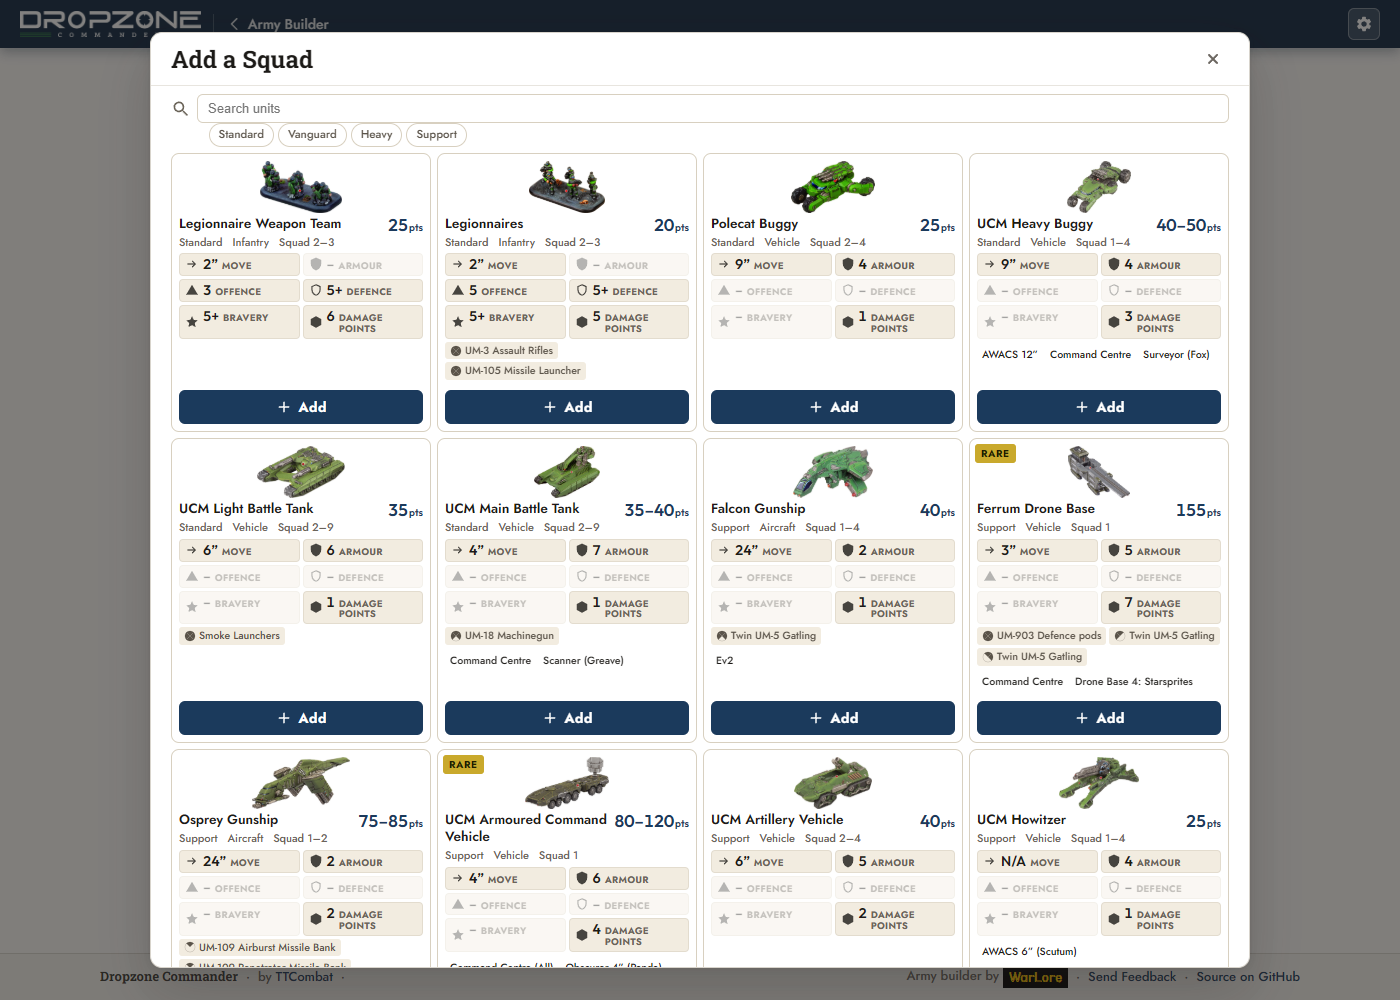
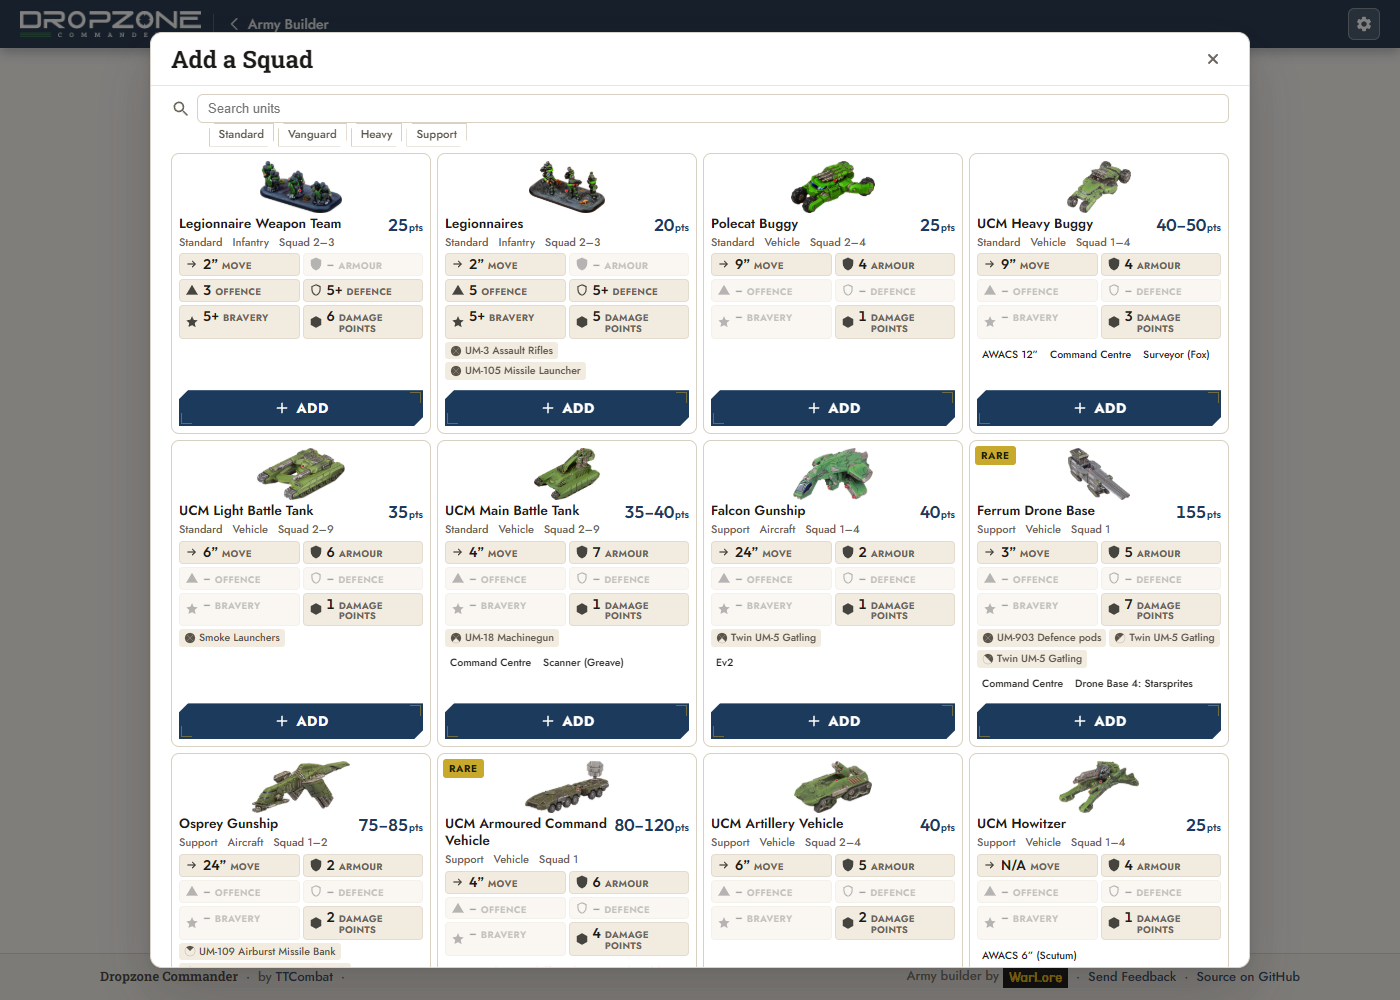
Art Deco buttons and pills: cut corners, not rounded ones
A 999px radius is the shape this project explicitly does not want. Chamfering
is the period-correct way to soften a rectangle, so the category pills and the
Add button cut their corners instead of rounding them.

The Add button also picks out its cut with a gold hairline bracket at the two
opposing corners, which is the same device .card-deco already uses on the
landing cards, and goes uppercase so it reads as the thing you press.

FAILINGS.md item 10 is resolved and says what it cost: the picker was finally
rendered and was wrong in three ways reading the diff had not caught -- the
grid stretched short cards and left a dead band above every Add button, the
arc glyphs were drawn at 20px inside a 10.5px chip, and adding closed the
picker. Three defects per unlooked-at change is the going rate.

Changed region(s): [[0.1229, 0.403, 0.8907, 0.992], [0.4914, 0.62, 0.5836, 0.651]]

diff --git a/css/dzc.css b/css/dzc.css
@@ -29,11 +29,17 @@
 }
 .dzc-search:focus-visible { outline: 2px solid var(--acc); outline-offset: 1px; }
 .dzc-chips { display: flex; flex-wrap: wrap; gap: 5px; }
+/* Deco pills: the corners are cut, not rounded. A 999px radius is the shape
+   this project explicitly does not want, and a chamfer is the period-correct
+   way to soften a rectangle. */
 .dzc-chip {
-  font: 500 12px/1 var(--font-ui, 'Jost', system-ui, sans-serif); padding: 7px 11px;
-  border-radius: 999px; cursor: pointer; border: 1px solid var(--line, #d8d0c0);
+  font: 500 12px/1 var(--font-ui, 'Jost', system-ui, sans-serif); padding: 7px 12px;
+  border-radius: 0; cursor: pointer; border: 1px solid var(--line, #d8d0c0);
   background: transparent; color: var(--ink-2, #5b544a);
+  clip-path: polygon(6px 0, 100% 0, 100% calc(100% - 6px), calc(100% - 6px) 100%, 0 100%, 0 6px);
+  transition: background .12s, color .12s, border-color .12s;
 }
+.dzc-chip:hover { border-color: var(--acc); color: var(--ink, #24201c); }
 .dzc-chip.is-active { background: var(--acc); border-color: var(--acc); color: #fff; }
 .dzc-count { font-size: 12px; color: var(--ink-2, #6b6459); margin: 6px 0 16px; }
 .dzc-empty { padding: 32px 0; text-align: center; color: var(--ink-2, #6b6459); }
@@ -334,16 +340,29 @@
 .dzc-pick-rules { margin-top: 3px; }
 .dzc-pick-rules .dzc-rule { margin: 2px 2px 0 0; padding: 1px 5px; font-size: 10.5px; }
 
-/* The add button is the point of the card, so it reads like it. */
+/* The add button is the point of the card, so it reads like it. Deco corners:
+   cut top-left and bottom-right, with a gold hairline picking out the cut. */
 .dzc-pick-add {
+  position: relative;
   display: flex; align-items: center; justify-content: center; gap: 5px;
-  width: 100%; margin-top: 6px; padding: 8px 12px;
-  border: 0; border-radius: 6px; cursor: pointer;
+  width: 100%; margin-top: 6px; padding: 9px 12px;
+  border: 0; border-radius: 0; cursor: pointer;
   background: var(--acc-ink, #1b3a5c); color: #fff;
   font: 700 14px/1 var(--font-ui, 'Jost', sans-serif);
-  letter-spacing: .02em;
+  letter-spacing: .04em; text-transform: uppercase;
+  clip-path: polygon(9px 0, 100% 0, 100% calc(100% - 9px), calc(100% - 9px) 100%, 0 100%, 0 9px);
+  transition: background .14s var(--ease-deco, cubic-bezier(.33,0,.67,1)), color .14s;
 }
-.dzc-pick-add:hover { background: var(--acc, #c9a227); color: #1b1710; }
+.dzc-pick-add::before,
+.dzc-pick-add::after {
+  content: ''; position: absolute; width: 11px; height: 11px;
+  border-style: solid; border-color: var(--gold, #c9a92c); opacity: .55;
+  pointer-events: none;
+}
+.dzc-pick-add::before { top: 2px; right: 2px; border-width: 1px 1px 0 0; }
+.dzc-pick-add::after { bottom: 2px; left: 2px; border-width: 0 0 1px 1px; }
+.dzc-pick-add:hover { background: var(--gold, #c9a92c); color: #1b1710; }
+.dzc-pick-add:hover::before, .dzc-pick-add:hover::after { border-color: #1b1710; opacity: .5; }
 
 /* ── enforcement affordances ── */
 .dzc-pick.is-blocked { opacity: .6; }

diff --git a/FAILINGS.md b/FAILINGS.md
@@ -178,10 +178,17 @@ explicit about which project and which label.
 
 **What happened.** I edited `js/dzc-builder.js` and `css/dzc.css` to rebuild the
 picker as a 4-across card grid with stats, weapons, rules and a large add
-button, then got redirected before ever seeing it render.
+button, then got redirected before ever seeing it render, and reported on it
+anyway.
 
-**Status: still unverified.** The code is written. Nobody has looked at it. It
-must not be described as done.
+**Resolved 2026-07-31.** It was finally rendered and screenshotted, and it was
+wrong in three ways the code review had not caught: the grid stretched short
+cards and left a dead band above every Add button, the arc glyphs were drawn at
+20px inside a 10.5px chip, and adding a Squad closed the picker. None of that
+was visible from reading the diff.
+
+**The lesson stands.** "The code is written" is not "the work is done", and
+three defects per unlooked-at change is the going rate.
 
 ---
 
